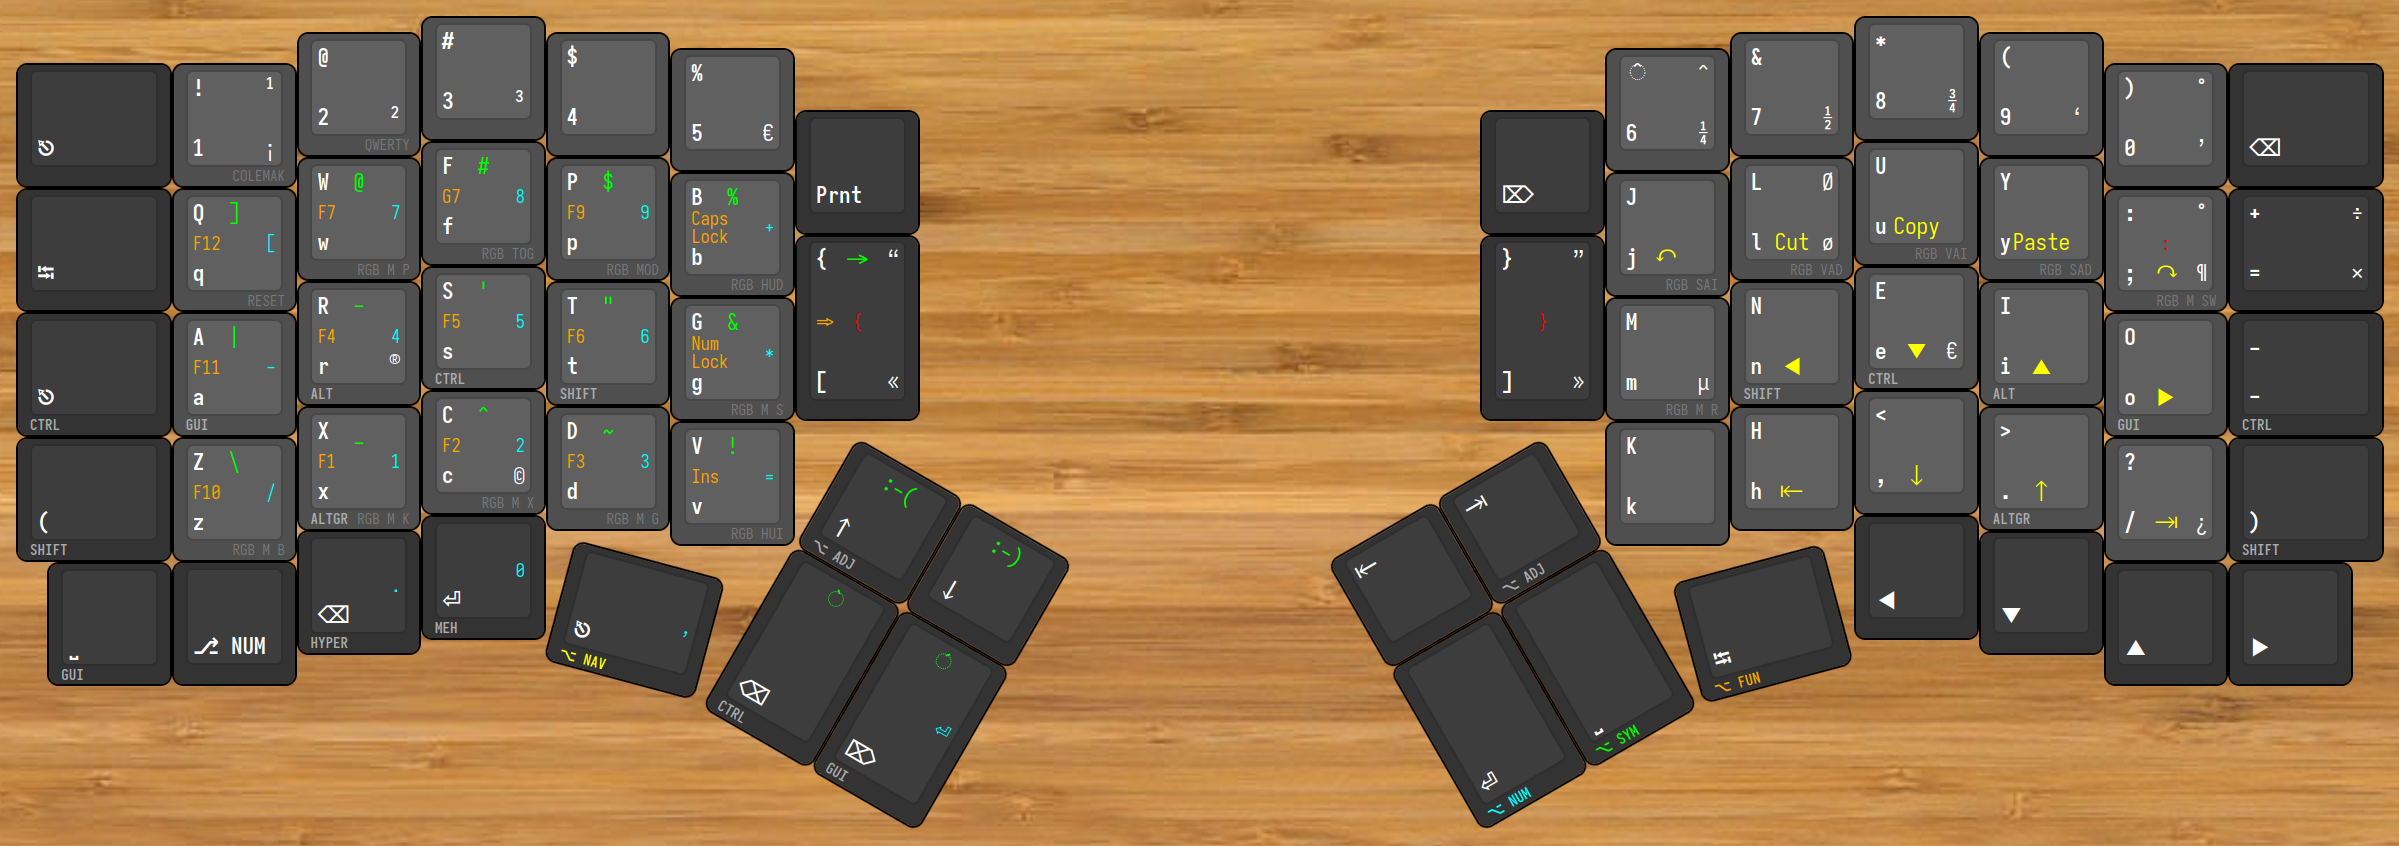
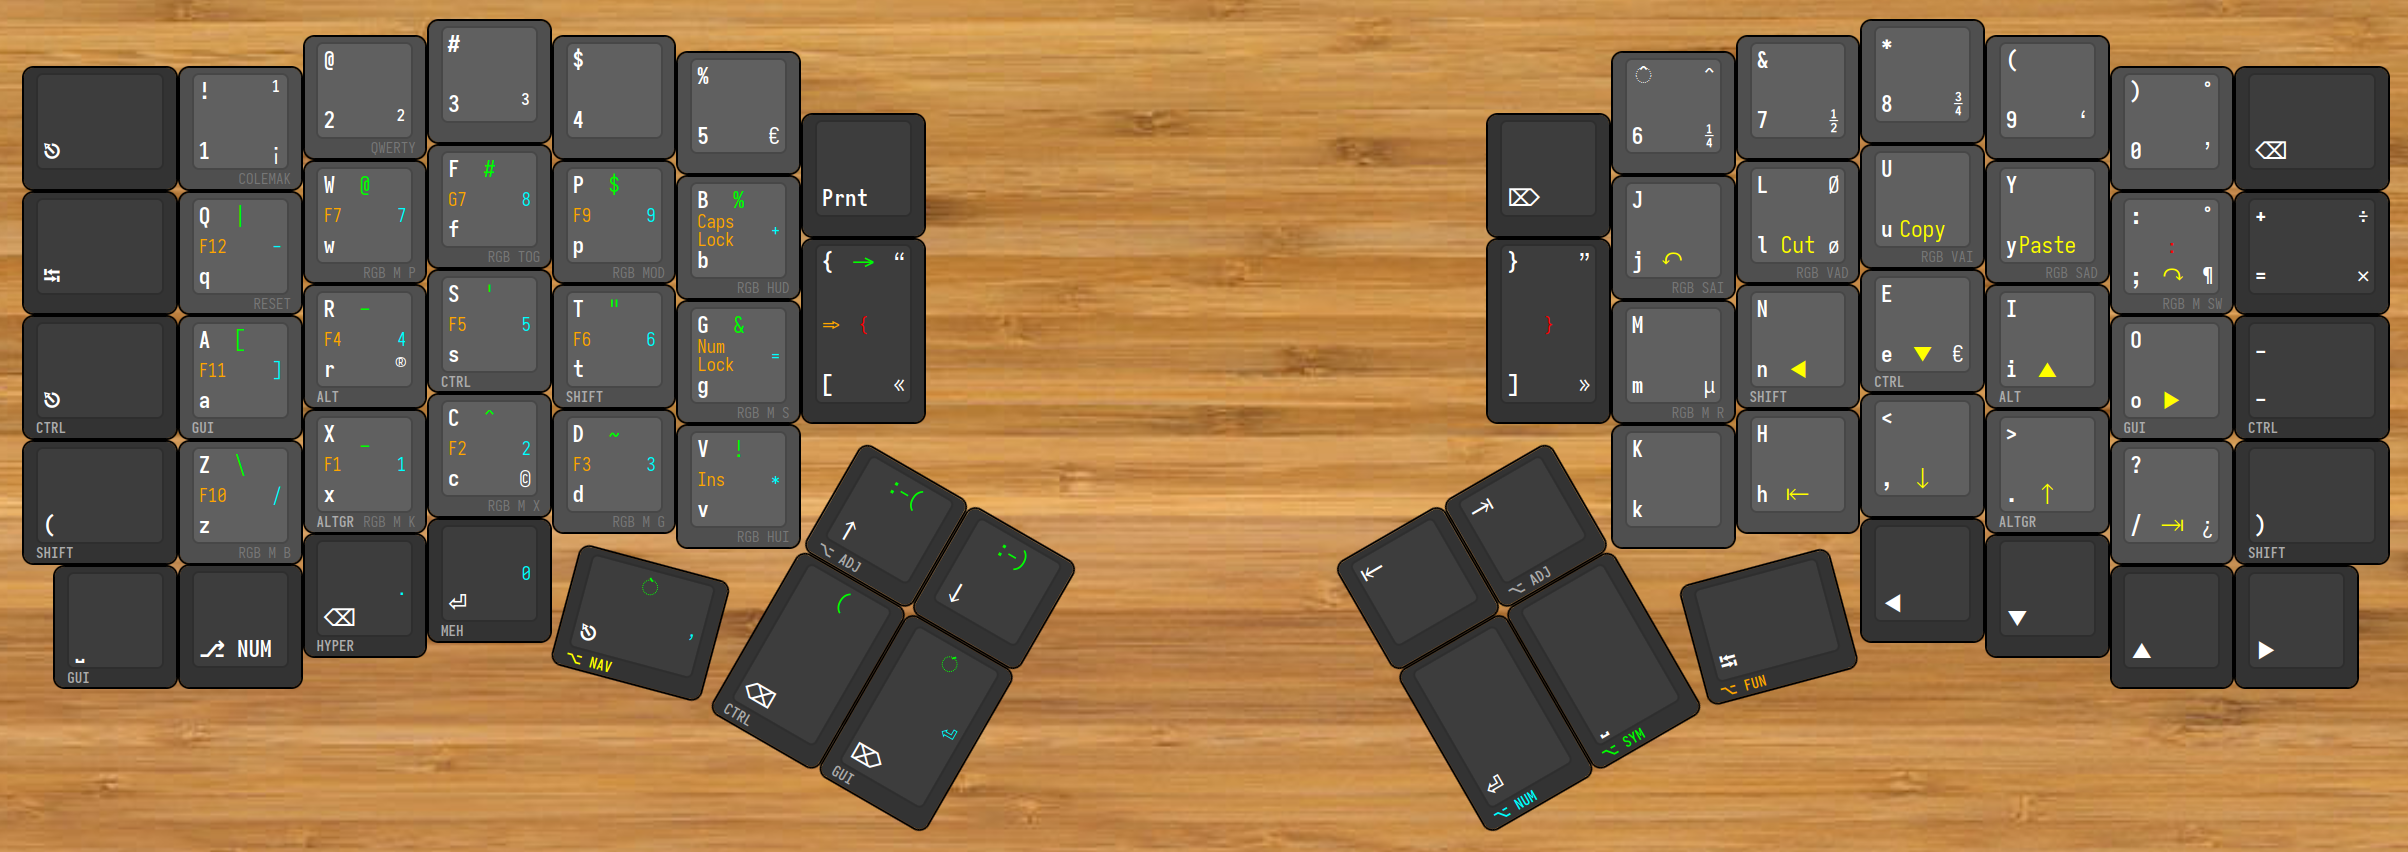
Misc updates to improve ease of use.

diff --git a/keymap.c b/keymap.c
@@ -263,13 +263,13 @@ const uint16_t PROGMEM keymaps[][MATRIX_ROWS][MATRIX_COLS] = {
     //┌────────┬────────┬────────┬────────┬────────┬────────┐                                           ┌────────┬────────┬────────┬────────┬────────┬────────┐
        _______ ,_______ ,_______ ,_______ ,_______ ,_______ ,                                            _______ ,_______ ,_______ ,_______ ,_______ ,_______ ,
     //├────────┼────────┼────────┼────────┼────────┼────────┼────────┐                         ┌────────┼────────┼────────┼────────┼────────┼────────┼────────┤
-       _______ ,KC_LBRC ,KC_AT   ,KC_HASH ,KC_DLR  ,KC_PERC ,_______ ,                          _______ ,_______ ,_______ ,_______ ,_______ ,_______ ,_______ ,
+       _______ ,KC_PIPE ,KC_AT   ,KC_HASH ,KC_DLR  ,KC_PERC ,_______ ,                          _______ ,_______ ,_______ ,_______ ,_______ ,_______ ,_______ ,
     //├────────┼────────┼────────┼────────┼────────┼────────┼────────┤                         ├────────┼────────┼────────┼────────┼────────┼────────┼────────┤
-       _______ ,KC_PIPE ,KC_PMNS ,ASC_SQT ,ASC_DQT ,KC_AMPR ,ASC_SAR ,                          _______ ,_______ ,_______ ,_______ ,_______ ,_______ ,_______ ,
+       _______ ,KC_LBRC ,KC_PMNS ,ASC_SQT ,ASC_DQT ,KC_EXLM ,ASC_SAR ,                          _______ ,_______ ,_______ ,_______ ,_______ ,_______ ,_______ ,
     //├────────┼────────┼────────┼────────┼────────┼────────┼────────┼────────┐       ┌────────┼────────┼────────┼────────┼────────┼────────┼────────┼────────┤
-       _______ ,KC_BSLS ,KC_UNDS ,ASC_CIRC,ASC_TILD,KC_EXLM ,ASC_SAD ,ASC_HAP ,        _______ ,_______ ,_______ ,_______ ,_______ ,_______ ,_______ ,_______ ,
+       _______ ,KC_BSLS ,KC_UNDS ,ASC_CIRC,ASC_TILD,KC_AMPR ,ASC_SAD ,ASC_HAP ,        _______ ,_______ ,_______ ,_______ ,_______ ,_______ ,_______ ,_______ ,
     //├────────┼────────┼────────┼────────┼────┬───┴────┬───┼────────┼────────┤       ├────────┼────────┼───┬────┴───┬────┼────────┼────────┼────────┼────────┤
-       _______ ,_______ ,_______ ,_______ ,     KC_GRV  ,    _______ ,KC_QUOT ,        _______ ,_______ ,    _______ ,     _______ ,_______ ,_______ ,_______
+       _______ ,_______ ,_______ ,_______ ,     KC_GRV  ,    KC_LPRN ,KC_QUOT ,        _______ ,_______ ,    _______ ,     _______ ,_______ ,_______ ,_______
     //└────────┴────────┴────────┴────────┘    └────────┘   └────────┴────────┘       └────────┴────────┘   └────────┘    └────────┴────────┴────────┴────────┘
   ),
 
@@ -306,13 +306,13 @@ const uint16_t PROGMEM keymaps[][MATRIX_ROWS][MATRIX_COLS] = {
     //┌────────┬────────┬────────┬────────┬────────┬────────┐                                           ┌────────┬────────┬────────┬────────┬────────┬────────┐
        _______ ,_______ ,_______ ,_______ ,_______ ,_______ ,                                            _______ ,_______ ,_______ ,_______ ,_______ ,_______ ,
     //├────────┼────────┼────────┼────────┼────────┼────────┼────────┐                         ┌────────┼────────┼────────┼────────┼────────┼────────┼────────┤
-       _______ ,KC_RBRC ,KC_7    ,KC_8    ,KC_9    ,KC_PPLS ,_______ ,                          _______ ,_______ ,_______ ,_______ ,_______ ,_______ ,_______ ,
+       _______ ,KC_PMNS ,KC_7    ,KC_8    ,KC_9    ,KC_PPLS ,_______ ,                          _______ ,_______ ,_______ ,_______ ,_______ ,_______ ,_______ ,
     //├────────┼────────┼────────┼────────┼────────┼────────┼────────┤                         ├────────┼────────┼────────┼────────┼────────┼────────┼────────┤
-       _______ ,KC_PMNS ,KC_4    ,KC_5    ,KC_6    ,KC_PAST ,_______ ,                          _______ ,_______ ,_______ ,_______ ,_______ ,_______ ,_______ ,
+       _______ ,KC_RBRC ,KC_4    ,KC_5    ,KC_6    ,KC_PAST ,_______ ,                          _______ ,_______ ,_______ ,_______ ,_______ ,_______ ,_______ ,
     //├────────┼────────┼────────┼────────┼────────┼────────┼────────┼────────┐       ┌────────┼────────┼────────┼────────┼────────┼────────┼────────┼────────┤
        _______ ,KC_PSLS ,KC_1    ,KC_2    ,KC_3    ,KC_EQL  ,_______ ,_______ ,        _______ ,_______ ,_______ ,_______ ,_______ ,_______ ,_______ ,_______ ,
     //├────────┼────────┼────────┼────────┼────┬───┴────┬───┼────────┼────────┤       ├────────┼────────┼───┬────┴───┬────┼────────┼────────┼────────┼────────┤
-       _______ ,_______ ,_______ ,_______ ,     KC_DOT  ,    KC_0    ,KC_GUCO ,        _______ ,_______ ,    _______ ,     _______ ,_______ ,_______ ,_______
+       _______ ,_______ ,KC_DOT  ,KC_0    ,     KC_COMM ,    _______ ,_______ ,        _______ ,_______ ,    _______ ,     _______ ,_______ ,_______ ,_______
     //└────────┴────────┴────────┴────────┘    └────────┘   └────────┴────────┘       └────────┴────────┘   └────────┘    └────────┴────────┴────────┴────────┘
   ),
 
